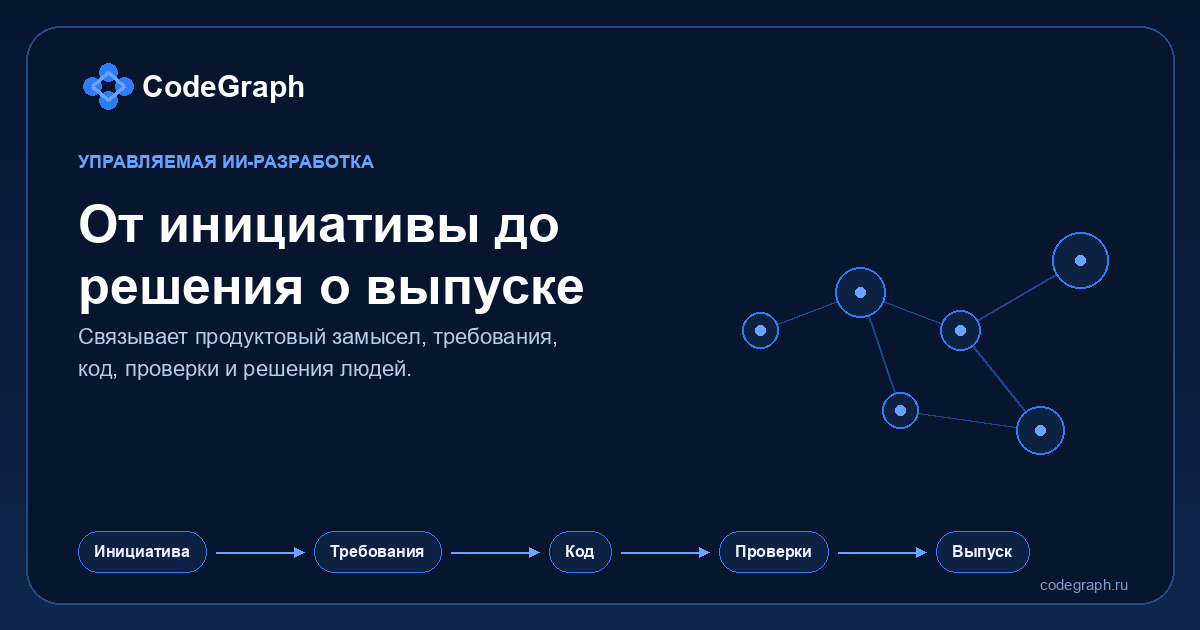
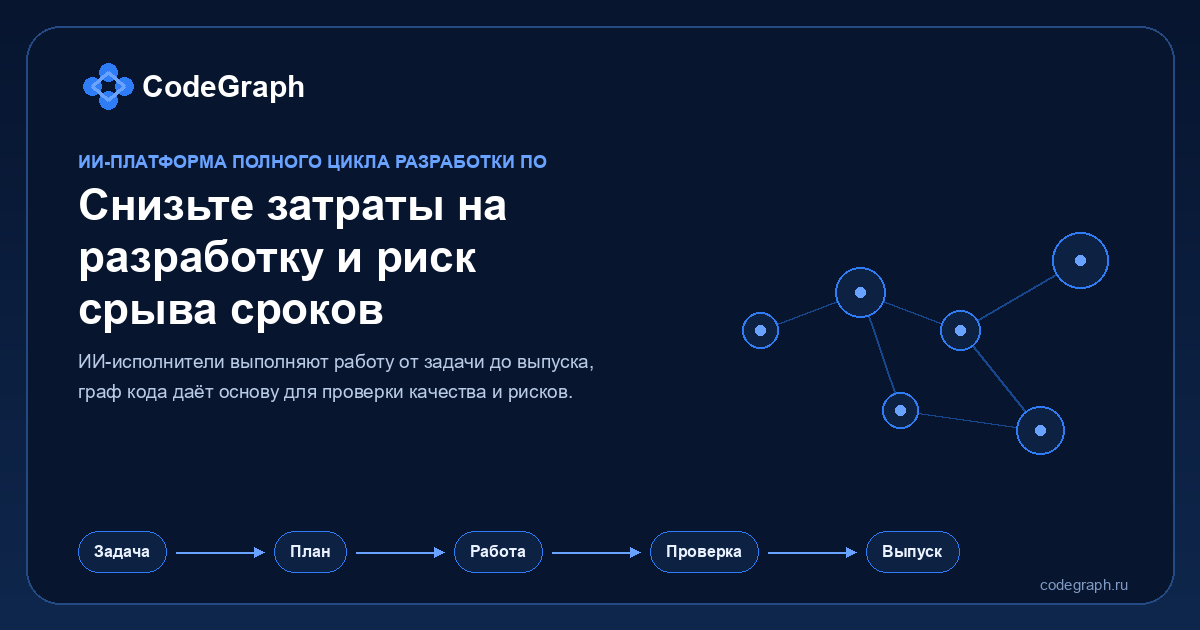
Align social preview with current positioning

diff --git a/index.html b/index.html
@@ -44,9 +44,9 @@
   <meta property="og:image" content="https://codegraph.ru/assets/og-codegraph-platform-20260722.png">
   <meta property="og:image:width" content="1200">
   <meta property="og:image:height" content="630">
-  <meta property="og:image:alt" content="CodeGraph — решение для управляемой разработки цифровых продуктов с участием ИИ">
+  <meta property="og:image:alt" content="CodeGraph — ИИ-платформа управления полным циклом разработки ПО.">
   <meta name="twitter:image" content="https://codegraph.ru/assets/og-codegraph-platform-20260722.png">
-  <meta name="twitter:image:alt" content="CodeGraph — решение для управляемой разработки цифровых продуктов с участием ИИ">
+  <meta name="twitter:image:alt" content="CodeGraph — ИИ-платформа управления полным циклом разработки ПО.">
   <meta http-equiv="Content-Security-Policy" content="default-src &#x27;self&#x27;; base-uri &#x27;self&#x27;; object-src &#x27;none&#x27;; style-src &#x27;self&#x27;; img-src &#x27;self&#x27; data: https://mc.yandex.ru https://mc.yandex.com; font-src &#x27;self&#x27;; script-src &#x27;self&#x27; &#x27;sha256-Nop/p9kz1wKZzTc4/UTbFcOF8VjCbpj1ellmDPXj7lg=&#x27; &#x27;sha256-R7TGte3pbJ8Q91hzgAtdPCyHhiooq7SZ85edu93kq94=&#x27; &#x27;sha256-d6UGzfvg/hxpf7y6qeIpeiFc5UvJRfRvjGcBChFSBUA=&#x27; https://cdn.jsdelivr.net https://mc.yandex.ru https://mc.yandex.net https://mc.yandex.com; connect-src &#x27;self&#x27; https://api.codegraph.ru https://mc.yandex.ru https://mc.yandex.net https://mc.yandex.com wss://mc.yandex.com; form-action &#x27;self&#x27;">
 </head>
 <body>

diff --git a/templates/head.html b/templates/head.html
@@ -45,8 +45,8 @@
   <meta property="og:image" content="https://codegraph.ru/assets/og-codegraph-platform-20260722.png">
   <meta property="og:image:width" content="1200">
   <meta property="og:image:height" content="630">
-  <meta property="og:image:alt" content="CodeGraph — решение для управляемой разработки цифровых продуктов с участием ИИ">
+  <meta property="og:image:alt" content="CodeGraph — ИИ-платформа управления полным циклом разработки ПО.">
   <meta name="twitter:image" content="https://codegraph.ru/assets/og-codegraph-platform-20260722.png">
-  <meta name="twitter:image:alt" content="CodeGraph — решение для управляемой разработки цифровых продуктов с участием ИИ">
+  <meta name="twitter:image:alt" content="CodeGraph — ИИ-платформа управления полным циклом разработки ПО.">
 </head>
 <body>
